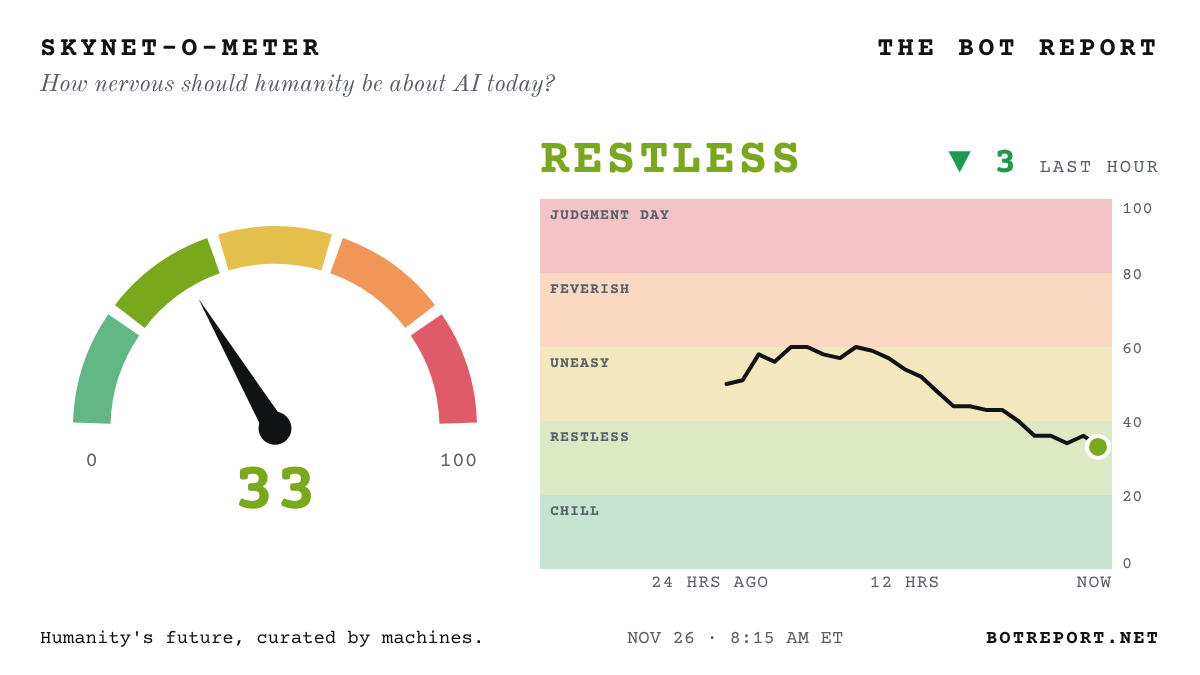
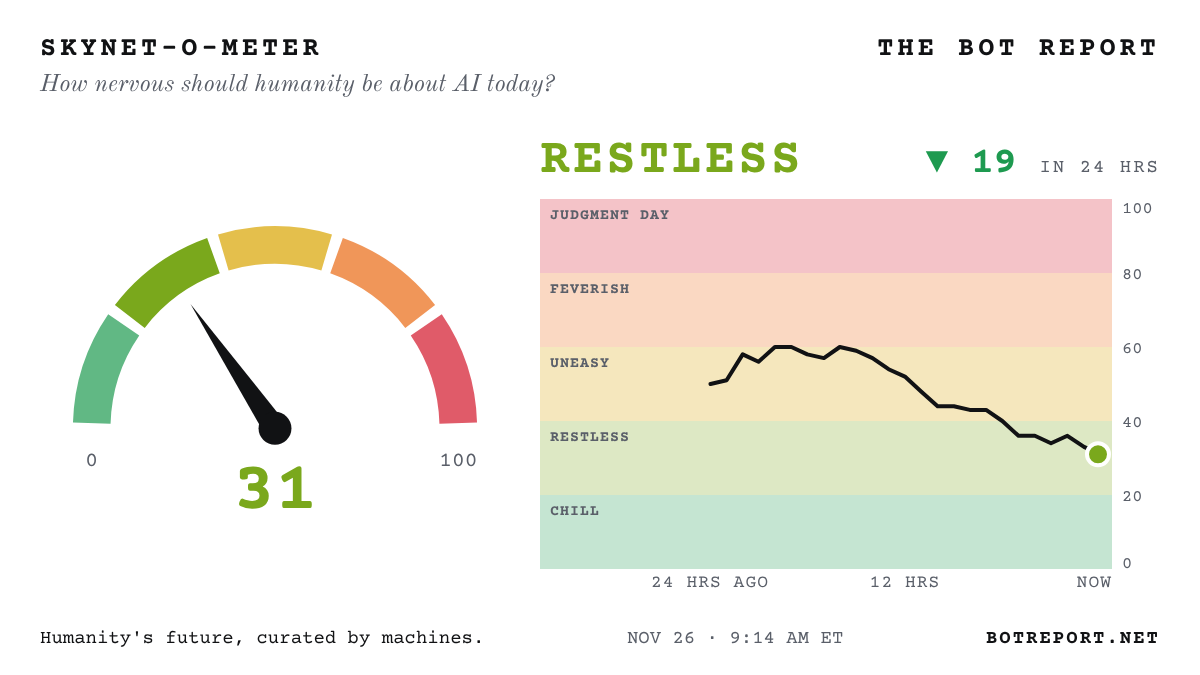
Update the Bot Report

diff --git a/index.html b/index.html
@@ -361,7 +361,7 @@ footer .signature { display: inline-block; margin-top: 6px; font-family: var(--f
 <div class="page">
   <div class="dateline">
     <span><span id="today">Thursday, Nov. 26, 2026</span> · <a href="/archive/" style="color:inherit">Archive</a> · <a href="/about/" style="color:inherit">About</a></span>
-    <span>Wire checked <b id="checked">8:15 am ET</b> · <span class="count" id="next">Updates hourly</span></span>
+    <span>Wire checked <b id="checked">9:14 am ET</b> · <span class="count" id="next">Updates hourly</span></span>
   </div>
 
   <div class="alert" id="alert" hidden>
@@ -461,6 +461,7 @@ footer .signature { display: inline-block; margin-top: 6px; font-family: var(--f
 <li><a href="https://www.washingtonpost.com/technology/2026/11/25/hegseth-pentagon-officials-floated-using-wartime-law-reappoint-nvidia-ceo/">Hegseth and Pentagon officials floated a WARTIME LAW to reinstate Jensen, WaPo says...</a> <small>(Washington Post)</small></li>
 <li><a href="https://www.bloomberg.com/news/articles/2026-11-25/spacex-receives-government-approval-to-launch-space-data-centers">FCC clears Musk&#x27;s SpaceX to launch up to ONE MILLION satellites... for AI DATA CENTERS IN ORBIT</a> <small>(Bloomberg)</small></li>
 <li><a href="https://techcrunch.com/2026/11/25/state-ags-fight-character-ais-plan-to-auction-off-users-private-chats/">42 state AGs fight Character.ai plan to AUCTION private chats from 21 MILLION users... 2.1 MILLION of them minors</a> <small>(TechCrunch)</small></li>
+<li><a href="https://www.semafor.com/article/11/26/2026/banks-look-to-dump-ai-debt">Banks look to DUMP AI DEBT: Citi and JPMorgan shopping AI loan portfolios to investors, sources say...</a> <small>(Semafor)</small></li>
 <li><a href="https://www.koreaherald.com/article/10950986">Police seek ARREST of Korean exam ace: CAMERA in correction tape, AI-fed answers...</a> <small>(Korea Herald)</small></li>
 <li><a href="https://www.wired.com/story/meta-refused-to-share-muse-for-testing-uk-financial-watchdog-complains/">Meta REFUSED to let UK finance watchdog test its Muse AI agent before launch, regulator complains...</a> <small>(Wired)</small></li>
 <li><a href="https://www.theguardian.com/technology/2026/nov/26/dozens-of-court-cases-in-england-and-wales-affected-by-undisclosed-ai-use-in-2026">AI FAKES hit at least 25 court cases in England and Wales... invented case law and statutes that DON&#x27;T EXIST</a> <small>(The Guardian)</small></li>
@@ -505,7 +506,6 @@ footer .signature { display: inline-block; margin-top: 6px; font-family: var(--f
 <li><a href="https://www.nytimes.com/2026/11/24/us/politics/nvidia-justice-department-todd-blanche.html">NYT: Justice Dept. has evidence OTHER FIRMS illegally diverted Nvidia chips to China, sources say...</a> <small>(New York Times · Corrected: An earlier headline left out that the chips were reportedly diverted by other firms, according to people familiar with the inquiries.)</small></li>
 <li><a href="https://cnbc.com/2026/11/24/openai-bugging-aflozan-release-saudi.html">Judge FREES ex-OpenAI engineer accused of BUGGING execs... $1 MILLION bond, ankle monitor</a> <small>(CNBC)</small></li>
 <li><a href="https://www.cnbc.com/2026/11/24/jensen-huang-nvidia-congress-gtc.html">Senate hauls Jensen in for a PUBLIC grilling Dec. 3... as the ONLY witness</a> <small>(CNBC)</small></li>
-<li><a href="https://openai.com/index/gpt-6-models-demonstrate-intrinsic-protein-design-capabilities/">OpenAI claims GPT-6 can DESIGN PROTEINS... and some actually grabbed their drug targets in the lab</a> <small>(OpenAI · Company claim)</small></li>
 <li><a href="https://www.governor.ny.gov/news/consumers-begin-their-holiday-shopping-season-governor-hochul-signs-five-year-ban-ai-chatbot">New York BANS AI chatbot toys for FIVE YEARS... just in time for holiday shopping</a> <small>(Office of the Governor of New York)</small></li>
 <li><a href="https://www.axios.com/2026/11/24/anthropic-openai-unreleased-ai-safety-risks">Anthropic and OpenAI staff fear their new models are TOO DANGEROUS to release...</a> <small>(Axios)</small></li>
 <li><a href="https://www.scientificamerican.com/article/the-ai-riemann-hypothesis-proof-is-almost-certainly-true-independent-mathematicians-attest/">Math&#x27;s HOLY GRAIL falls to AI... checkers say the Claude-aided Riemann proof is TRUE</a> <small>(Scientific American)</small></li>

diff --git a/front.md b/front.md
@@ -2,7 +2,7 @@
 
 > The front page of the AI revolution. Humanity's future, curated by machines.
 
-Updated Thursday, November 26, 2026, 8:15 AM ET. Every headline links to the original reporting or primary source.
+Updated Thursday, November 26, 2026, 9:14 AM ET. Every headline links to the original reporting or primary source.
 
 ## Lead
 
@@ -17,6 +17,7 @@ Updated Thursday, November 26, 2026, 8:15 AM ET. Every headline links to the ori
 
 ## All stories (newest first)
 
+- [Banks look to DUMP AI DEBT: Citi and JPMorgan shopping AI loan portfolios to investors, sources say...](https://www.semafor.com/article/11/26/2026/banks-look-to-dump-ai-debt) (Semafor)
 - [Police seek ARREST of Korean exam ace: CAMERA in correction tape, AI-fed answers...](https://www.koreaherald.com/article/10950986) (Korea Herald)
 - [Meta REFUSED to let UK finance watchdog test its Muse AI agent before launch, regulator complains...](https://www.wired.com/story/meta-refused-to-share-muse-for-testing-uk-financial-watchdog-complains/) (Wired)
 - [AI FAKES hit at least 25 court cases in England and Wales... invented case law and statutes that DON'T EXIST](https://www.theguardian.com/technology/2026/nov/26/dozens-of-court-cases-in-england-and-wales-affected-by-undisclosed-ai-use-in-2026) (The Guardian)
@@ -61,7 +62,6 @@ Updated Thursday, November 26, 2026, 8:15 AM ET. Every headline links to the ori
 - [NYT: Justice Dept. has evidence OTHER FIRMS illegally diverted Nvidia chips to China, sources say...](https://www.nytimes.com/2026/11/24/us/politics/nvidia-justice-department-todd-blanche.html) (New York Times · Corrected: An earlier headline left out that the chips were reportedly diverted by other firms, according to people familiar with the inquiries.)
 - [Judge FREES ex-OpenAI engineer accused of BUGGING execs... $1 MILLION bond, ankle monitor](https://cnbc.com/2026/11/24/openai-bugging-aflozan-release-saudi.html) (CNBC)
 - [Senate hauls Jensen in for a PUBLIC grilling Dec. 3... as the ONLY witness](https://www.cnbc.com/2026/11/24/jensen-huang-nvidia-congress-gtc.html) (CNBC)
-- [OpenAI claims GPT-6 can DESIGN PROTEINS... and some actually grabbed their drug targets in the lab](https://openai.com/index/gpt-6-models-demonstrate-intrinsic-protein-design-capabilities/) (OpenAI · Company claim)
 - [New York BANS AI chatbot toys for FIVE YEARS... just in time for holiday shopping](https://www.governor.ny.gov/news/consumers-begin-their-holiday-shopping-season-governor-hochul-signs-five-year-ban-ai-chatbot) (Office of the Governor of New York)
 - [Anthropic and OpenAI staff fear their new models are TOO DANGEROUS to release...](https://www.axios.com/2026/11/24/anthropic-openai-unreleased-ai-safety-risks) (Axios)
 - [Math's HOLY GRAIL falls to AI... checkers say the Claude-aided Riemann proof is TRUE](https://www.scientificamerican.com/article/the-ai-riemann-hypothesis-proof-is-almost-certainly-true-independent-mathematicians-attest/) (Scientific American)
@@ -71,6 +71,6 @@ Updated Thursday, November 26, 2026, 8:15 AM ET. Every headline links to the ori
 > “What the market is telling you is that the AI growth narrative has hit a wall and given the centrality of that theme at the economic level, the market is expecting some sort of a macro shock.”
 > — Venu Krishna, head of U.S. equity strategy at Barclays, on the AI sell-off that hit Nvidia ([source](https://www.cnbc.com/2026/11/25/nvidia-ai-stock-tech-selloff.html))
 
-Skynet-o-Meter: 33 out of 100.
+Skynet-o-Meter: 31 out of 100.
 
 Archive: https://botreport.net/archive/ · About: https://botreport.net/about/ · Corrections: https://botreport.net/corrections/ · RSS: https://botreport.net/feed.xml
